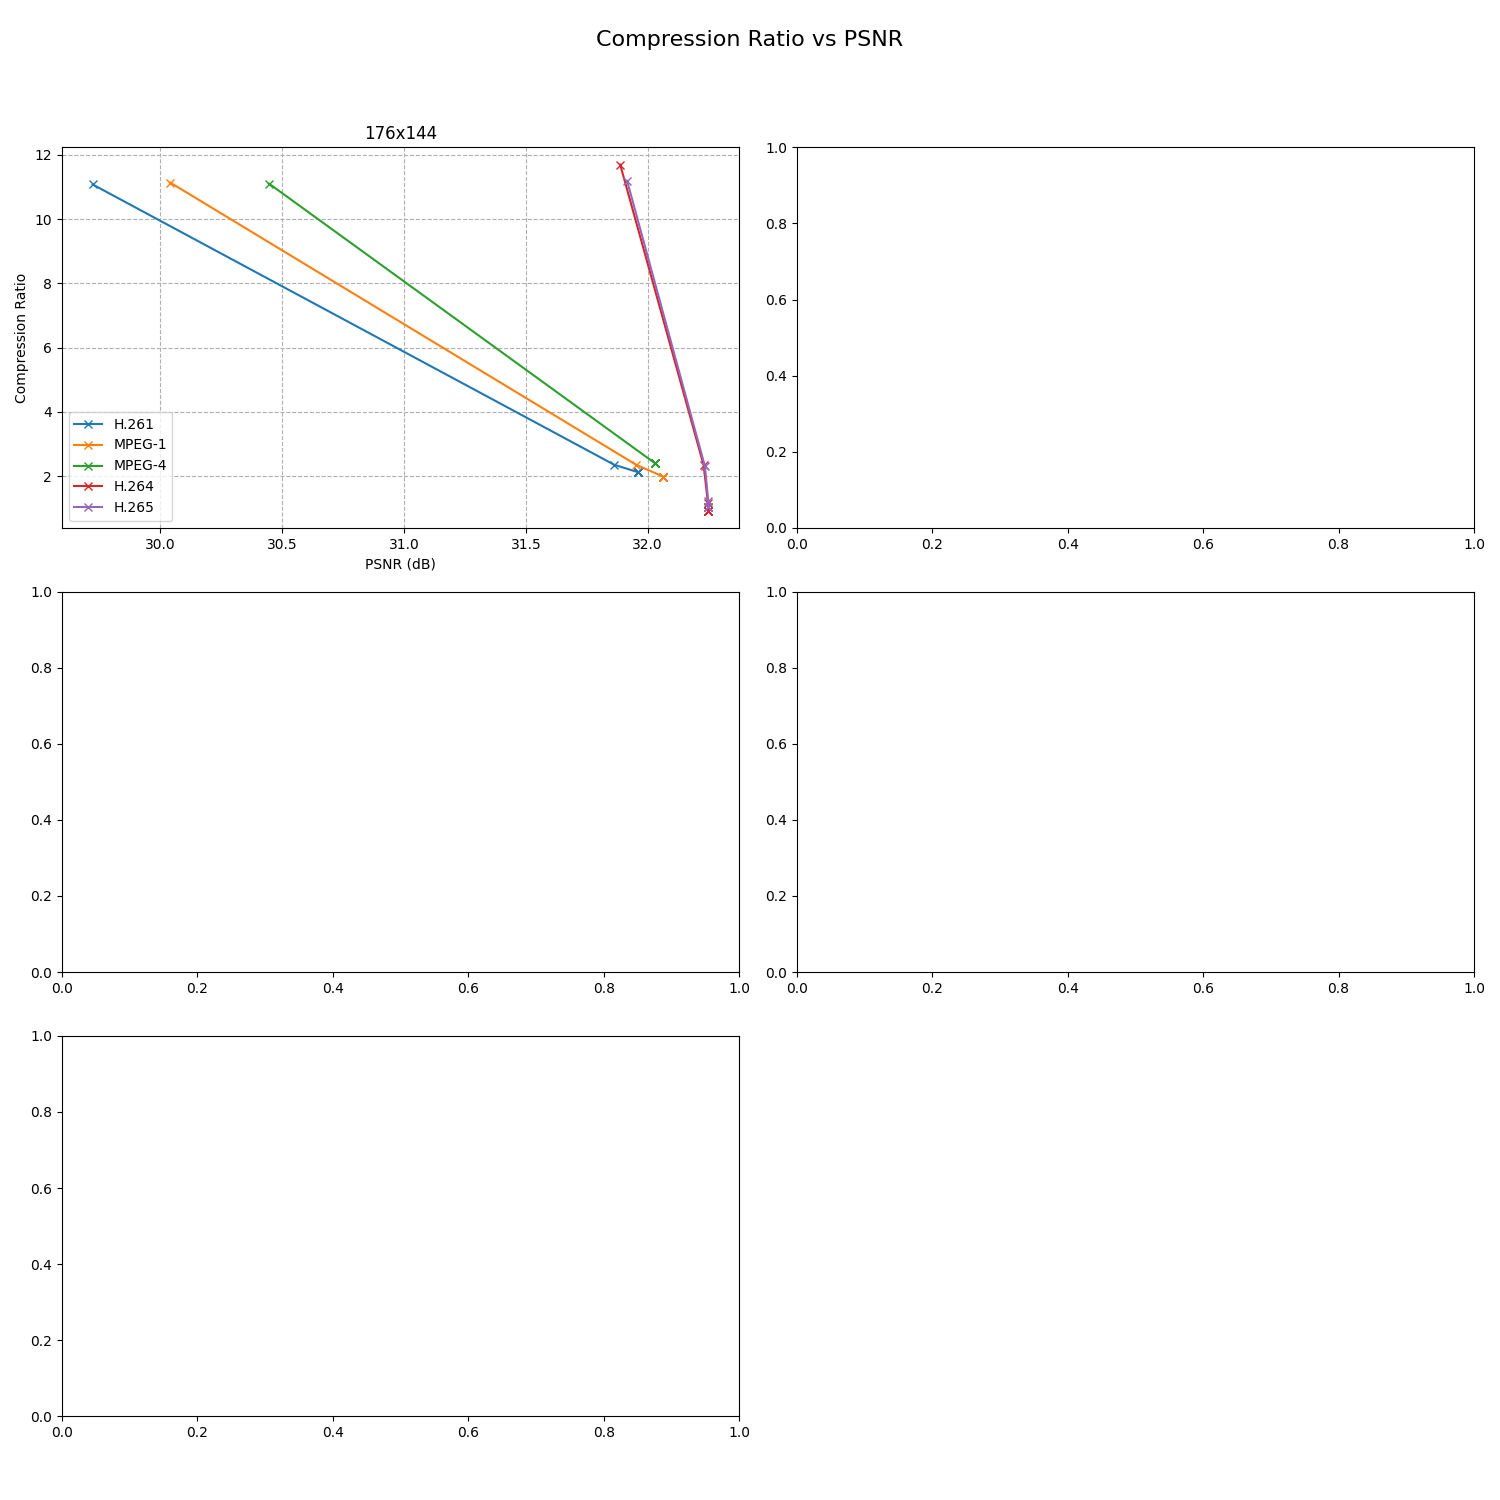
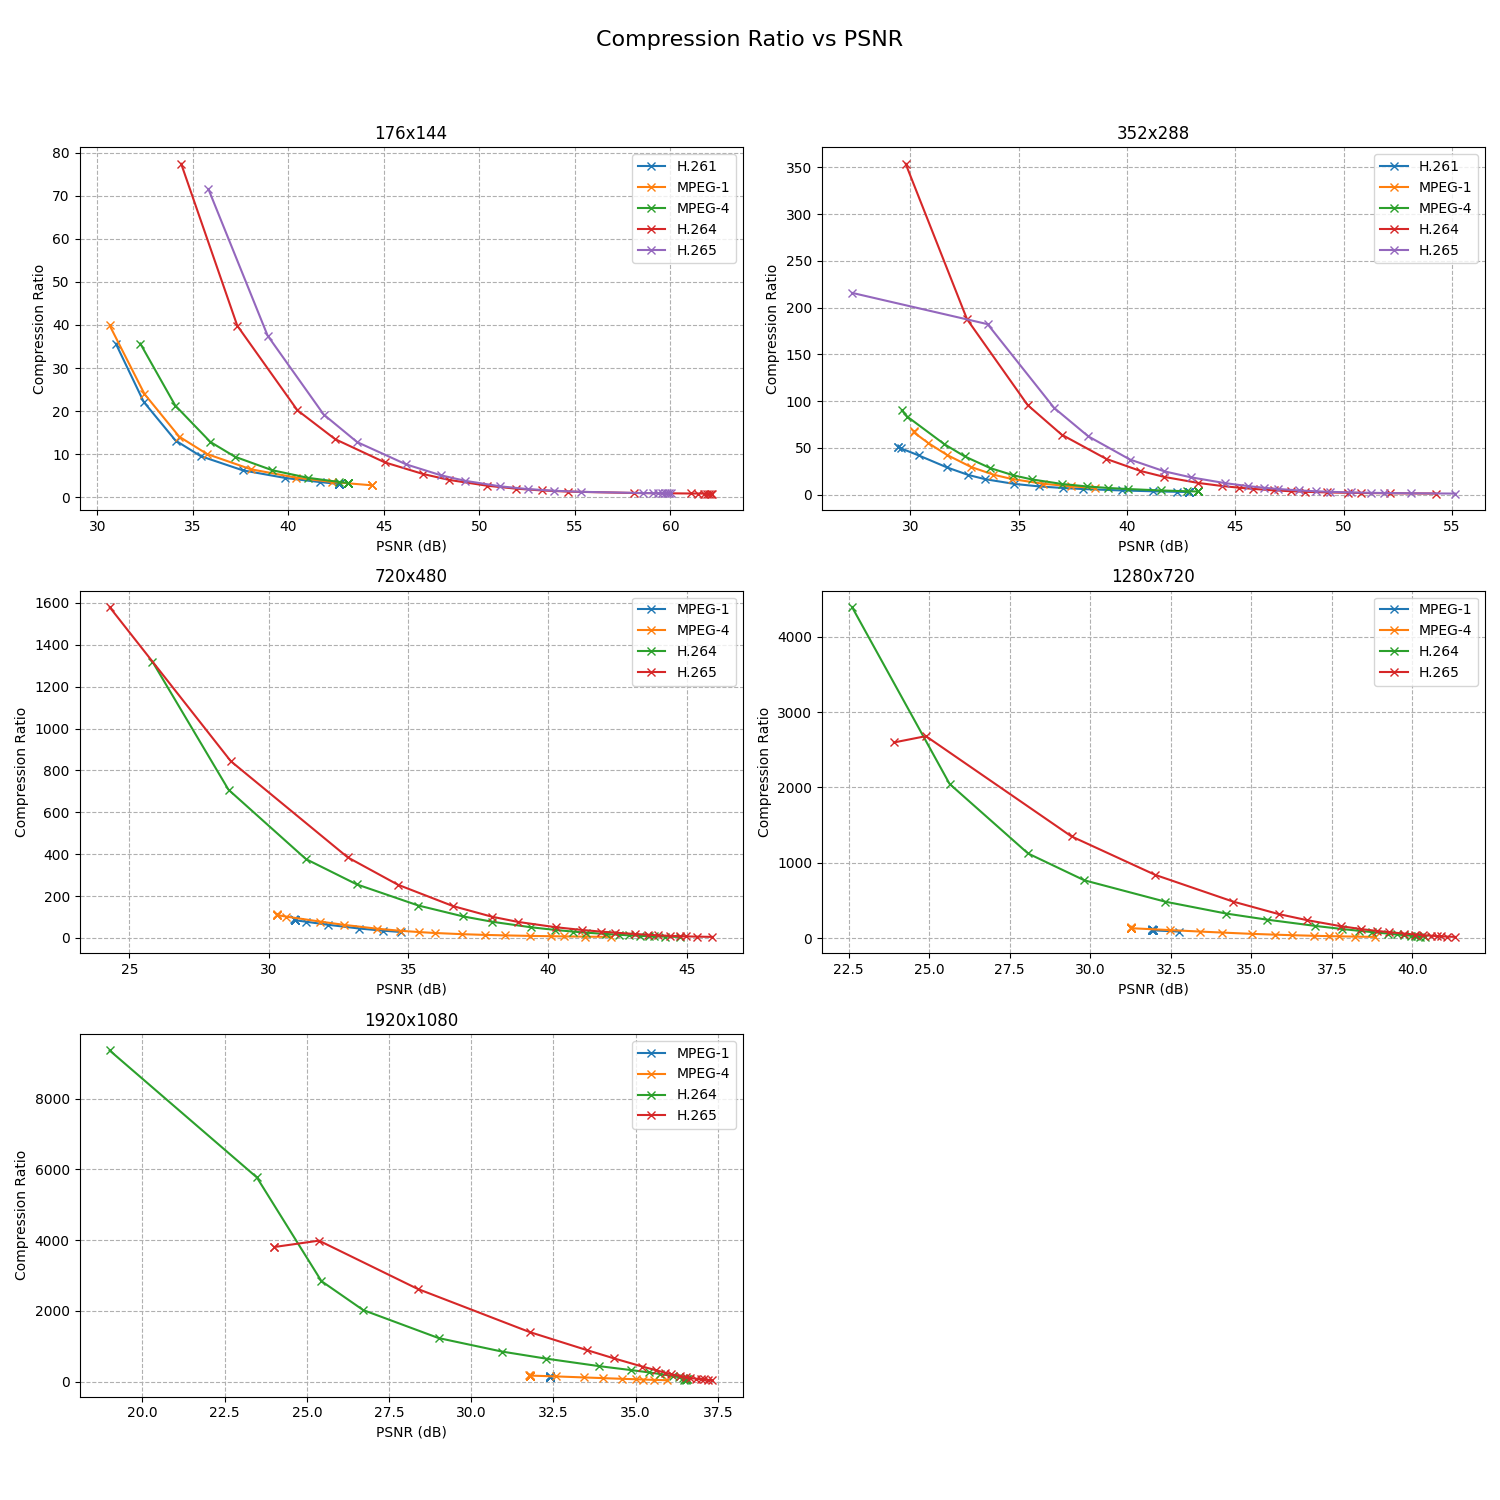
67

diff --git a/comp.py b/comp.py
@@ -21,7 +21,7 @@ CLIP_DURATION = 10    # seconds
 
 # ★ SPEEDUP #2 — run this many encode jobs at the same time.
 #   Colab standard tier has 2 vCPUs; 4 workers keeps both busy while one waits on I/O.
-MAX_WORKERS   = 6
+MAX_WORKERS   = 2
 
 CODECS = {
     "H.261":  "h261",
@@ -135,7 +135,7 @@ def encode_task(args: tuple):
     ref_video, ref_size, codec_name, ffmpeg_codec, br, res, use_gpu, current_gpu_map = args
 
     # Unique temp filename per thread to avoid collisions
-    tmp = f"tmp_{res}_{codec_name}_{br}k_{threading.get_ident()}.mkv"
+    tmp = f"{codec_name}_{res}_{br}kbps.mkv"
     actual_codec = current_gpu_map.get(ffmpeg_codec, ffmpeg_codec) if use_gpu else ffmpeg_codec
 
     # Base command structure
@@ -180,7 +180,7 @@ def encode_task(args: tuple):
     comp_size = os.path.getsize(tmp)
     psnr      = get_psnr(ref_video, tmp)
     ratio     = ref_size / comp_size if comp_size > 0 else 0.0
-    os.remove(tmp)
+
     return br, psnr, ratio, elapsed
 
 